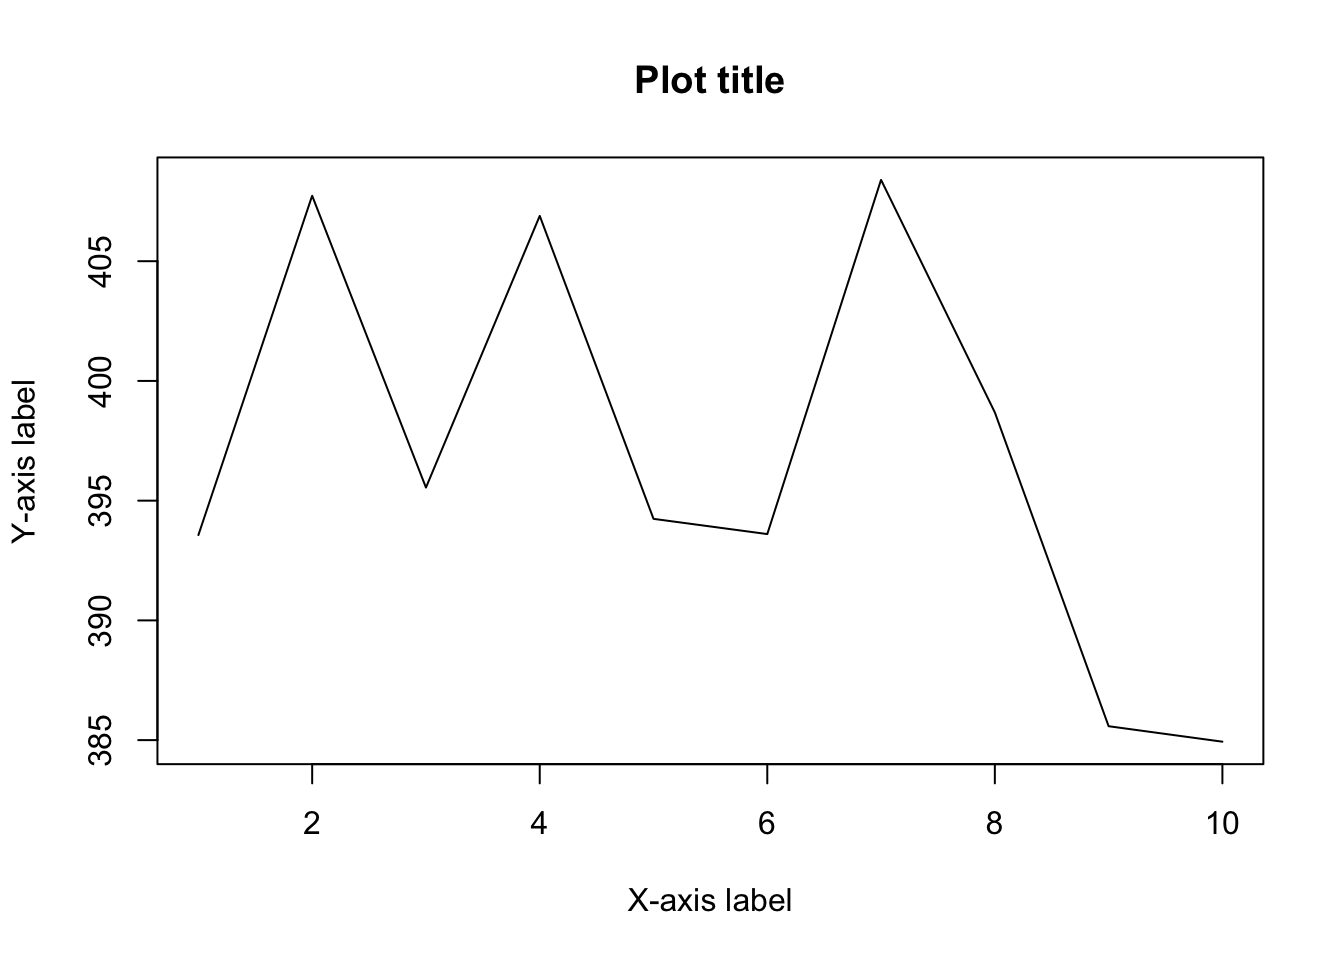
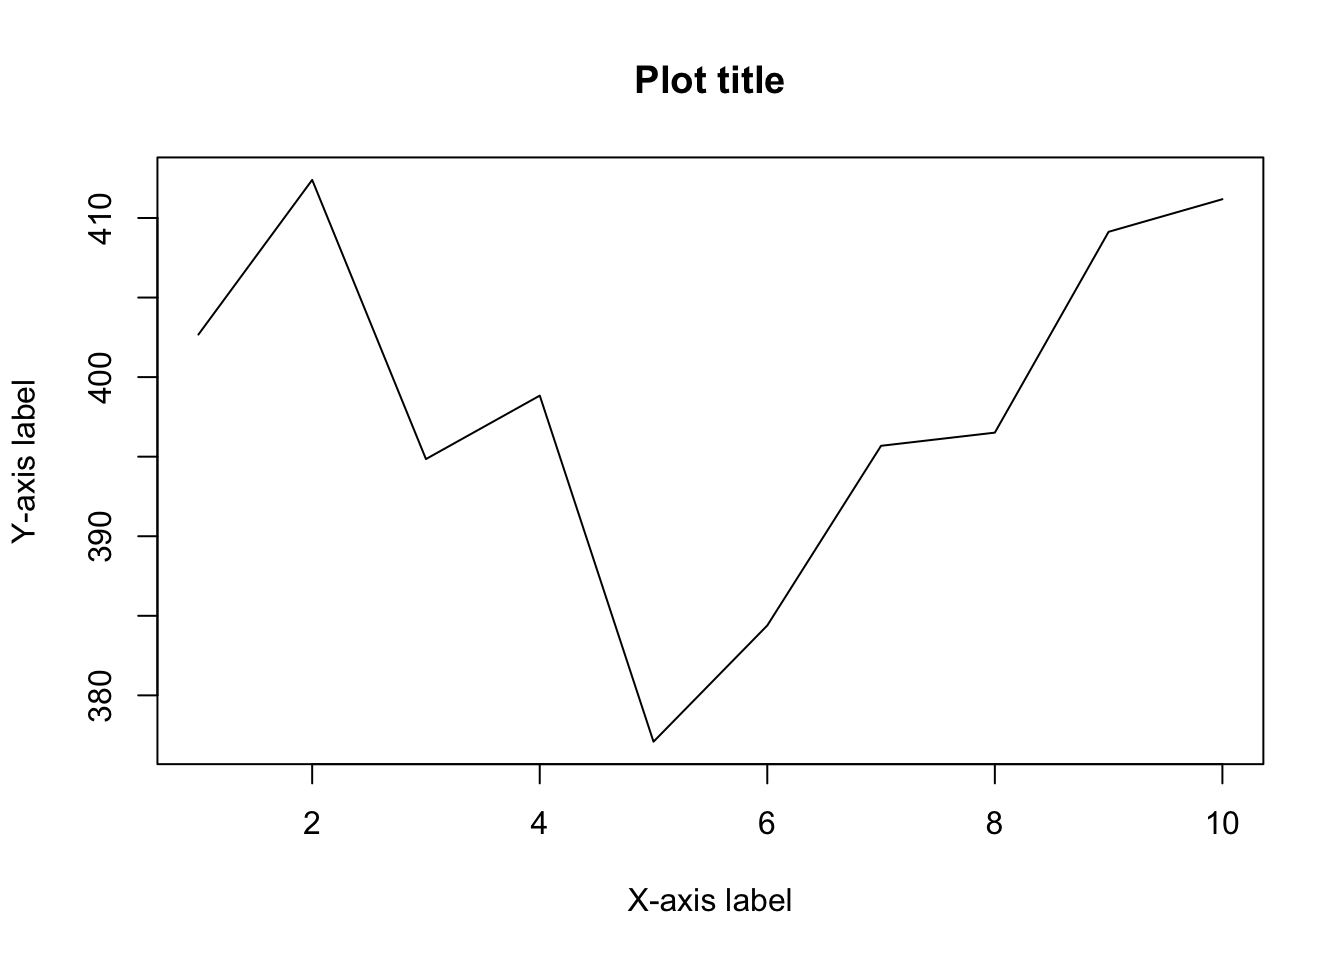
edit post

diff --git a/content/blog/how-to-install-r-and-rstudio.html b/content/blog/how-to-install-r-and-rstudio.html
@@ -186,10 +186,10 @@ my_mat2</code></pre>
 <pre class="r"><code>my_vec &lt;- rnorm(10, mean = 400, sd = 10)
 # Display only the first 5 values:
 head(my_vec, 5)</code></pre>
-<pre><code>## [1] 393.5643 407.7329 395.5465 406.8903 394.2407</code></pre>
+<pre><code>## [1] 402.6741 412.3930 394.8499 398.8358 377.0884</code></pre>
 <pre class="r"><code># Display only the last 5 values:
 tail(my_vec, 5)</code></pre>
-<pre><code>## [1] 393.6044 408.3945 398.6851 385.5808 384.9344</code></pre>
+<pre><code>## [1] 384.3917 395.6831 396.5116 409.1318 411.1810</code></pre>
 <p>You will have different values than mines due to the fact that they are randomly generated. If you want to make sure to have always the same random values, use <code>set.seed()</code> (with any numeric inside the brackets). For instance, with the following code, you should have the exact same values, no matter where and when you run it:</p>
 <pre class="r"><code>set.seed(42)
 rnorm(3, mean = 10, sd = 2)</code></pre>
@@ -208,6 +208,8 @@ rnorm(3, mean = 10, sd = 2)</code></pre>
 <p>Thanks for reading. I hope this article helped you to install R and RStudio. See other articles related to R <a href="/tags/r/">here</a>.</p>
 <p>As always, if you have a question or a suggestion related to the topic covered in this article, please add it as a comment so other readers can benefit from the discussion. If you find a mistake or bug, you can inform me by <a href="https://github.com/AntoineSoetewey/statsandr/issues" target="_blank" rel="noopener">raising an issue on GitHub</a>. For all other requests, you can contact me <a href="/contact/">here</a>.</p>
 <p>Get updates every time a new article is published by <a href="/subscribe/">subscribing to this blog</a>.</p>
+<p><strong>Related articles:</strong></p>
+<script src="//rss.bloople.net/?url=https%3A%2F%2Fwww.statsandr.com%2Ftags%2Fr%2Findex.xml&detail=-1&limit=5&showtitle=false&type=js"></script>
 </div>
 </div>
 <div class="footnotes">

diff --git a/public/blog/how-to-install-r-and-rstudio/index.html b/public/blog/how-to-install-r-and-rstudio/index.html
@@ -323,10 +323,10 @@ my_mat2</code></pre>
 <pre class="r"><code>my_vec &lt;- rnorm(10, mean = 400, sd = 10)
 # Display only the first 5 values:
 head(my_vec, 5)</code></pre>
-<pre><code>## [1] 393.5643 407.7329 395.5465 406.8903 394.2407</code></pre>
+<pre><code>## [1] 402.6741 412.3930 394.8499 398.8358 377.0884</code></pre>
 <pre class="r"><code># Display only the last 5 values:
 tail(my_vec, 5)</code></pre>
-<pre><code>## [1] 393.6044 408.3945 398.6851 385.5808 384.9344</code></pre>
+<pre><code>## [1] 384.3917 395.6831 396.5116 409.1318 411.1810</code></pre>
 <p>You will have different values than mines due to the fact that they are randomly generated. If you want to make sure to have always the same random values, use <code>set.seed()</code> (with any numeric inside the brackets). For instance, with the following code, you should have the exact same values, no matter where and when you run it:</p>
 <pre class="r"><code>set.seed(42)
 rnorm(3, mean = 10, sd = 2)</code></pre>
@@ -345,6 +345,8 @@ rnorm(3, mean = 10, sd = 2)</code></pre>
 <p>Thanks for reading. I hope this article helped you to install R and RStudio. See other articles related to R <a href="/tags/r/">here</a>.</p>
 <p>As always, if you have a question or a suggestion related to the topic covered in this article, please add it as a comment so other readers can benefit from the discussion. If you find a mistake or bug, you can inform me by <a href="https://github.com/AntoineSoetewey/statsandr/issues" target="_blank" rel="noopener">raising an issue on GitHub</a>. For all other requests, you can contact me <a href="/contact/">here</a>.</p>
 <p>Get updates every time a new article is published by <a href="/subscribe/">subscribing to this blog</a>.</p>
+<p><strong>Related articles:</strong></p>
+<script src="//rss.bloople.net/?url=https%3A%2F%2Fwww.statsandr.com%2Ftags%2Fr%2Findex.xml&detail=-1&limit=5&showtitle=false&type=js"></script>
 </div>
 </div>
 <div class="footnotes">

diff --git a/public/blog/an-efficient-way-to-install-and-load-r-packages/index.html b/public/blog/an-efficient-way-to-install-and-load-r-packages/index.html
@@ -228,8 +228,6 @@ pacman::p_load(ggplot2, tidyr, dplyr)</code></pre>
 <p>Thanks for reading. I hope the article helped you to install and load R packages in a more efficient way. See other articles about <a href="/tags/R/">R</a>.</p>
 <p>As always, if you have a question or a suggestion related to the topic covered in this article, please add it as a comment so other readers can benefit from the discussion. If you find a mistake or bug, you can inform me by <a href="https://github.com/AntoineSoetewey/statsandr/issues" target="_blank" rel="noopener">raising an issue on GitHub</a>. For all other requests, you can contact me <a href="/contact/">here</a>.</p>
 <p>Get updates every time a new article is published by <a href="/subscribe/">subscribing to this blog</a>.</p>
-<p><strong>Related articles:</strong></p>
-<script src="//rss.bloople.net/?url=https%3A%2F%2Fwww.statsandr.com%2Ftags%2Fr%2Findex.xml&detail=-1&limit=5&showtitle=false&type=js"></script>
 <p><em>A special thanks Danilo for informing me about the <code>{pacman}</code> package.</em></p>
 </div>
 

diff --git a/content/blog/an-efficient-way-to-install-and-load-r-packages.html b/content/blog/an-efficient-way-to-install-and-load-r-packages.html
@@ -92,7 +92,5 @@ pacman::p_load(ggplot2, tidyr, dplyr)</code></pre>
 <p>Thanks for reading. I hope the article helped you to install and load R packages in a more efficient way. See other articles about <a href="/tags/R/">R</a>.</p>
 <p>As always, if you have a question or a suggestion related to the topic covered in this article, please add it as a comment so other readers can benefit from the discussion. If you find a mistake or bug, you can inform me by <a href="https://github.com/AntoineSoetewey/statsandr/issues" target="_blank" rel="noopener">raising an issue on GitHub</a>. For all other requests, you can contact me <a href="/contact/">here</a>.</p>
 <p>Get updates every time a new article is published by <a href="/subscribe/">subscribing to this blog</a>.</p>
-<p><strong>Related articles:</strong></p>
-<script src="//rss.bloople.net/?url=https%3A%2F%2Fwww.statsandr.com%2Ftags%2Fr%2Findex.xml&detail=-1&limit=5&showtitle=false&type=js"></script>
 <p><em>A special thanks Danilo for informing me about the <code>{pacman}</code> package.</em></p>
 </div>
